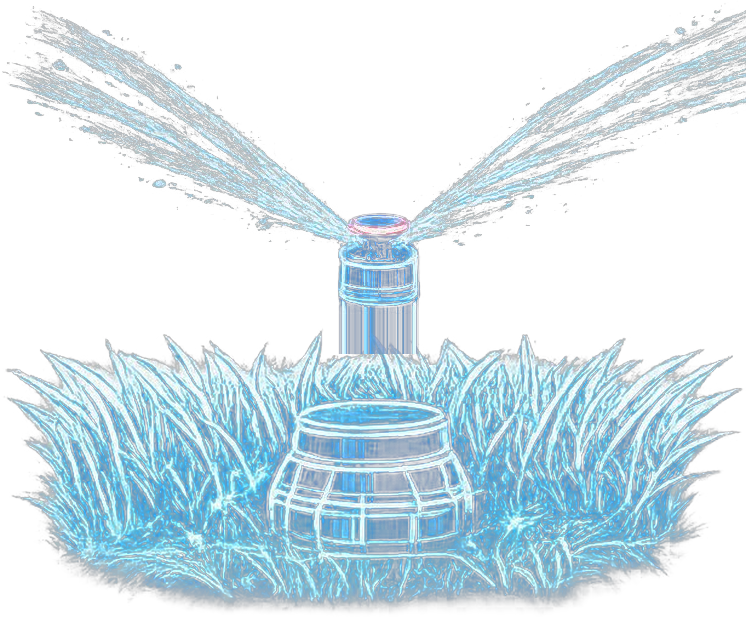
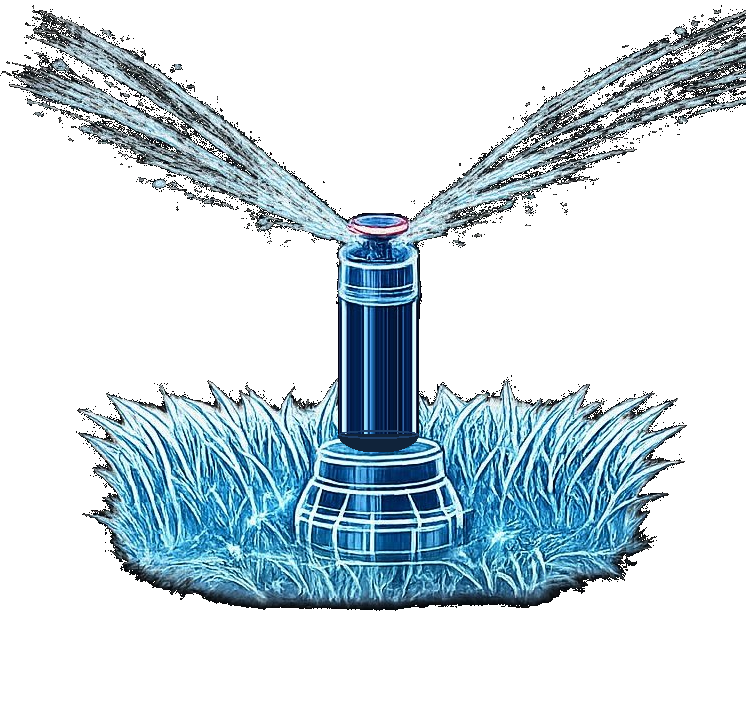
fix: new beregner-active.png (user-edited) + bottom:0 alignment for clean swap
Both images bottom-aligned in 153px wrapper — barrel aligns in both states.
No more top offset hacks needed.

diff --git a/www/dashboard.html b/www/dashboard.html
@@ -551,11 +551,11 @@ html, body {
   </div>
 
   <div id="n-beregner" class="holo-node">
-    <div style="position:relative;width:160px;height:160px;">
+    <div style="position:relative;width:160px;height:153px;">
       <img id="beregner-base-img" src="img/dashboard/beregner-inactive.png" alt="Beregner"
-           style="position:absolute;left:0;top:0;width:160px;z-index:0;">
+           style="position:absolute;bottom:0;left:0;width:160px;z-index:0;transition:opacity 0.4s;">
       <img id="beregner-active-img" src="img/dashboard/beregner-active.png" alt="Beregner aktiv"
-           style="position:absolute;left:0;top:-70px;width:160px;z-index:1;opacity:0;transition:opacity 0.4s;">
+           style="position:absolute;bottom:0;left:0;width:160px;z-index:1;opacity:0;transition:opacity 0.4s;">
     </div>
     <div class="resize-handle"></div>
   </div>